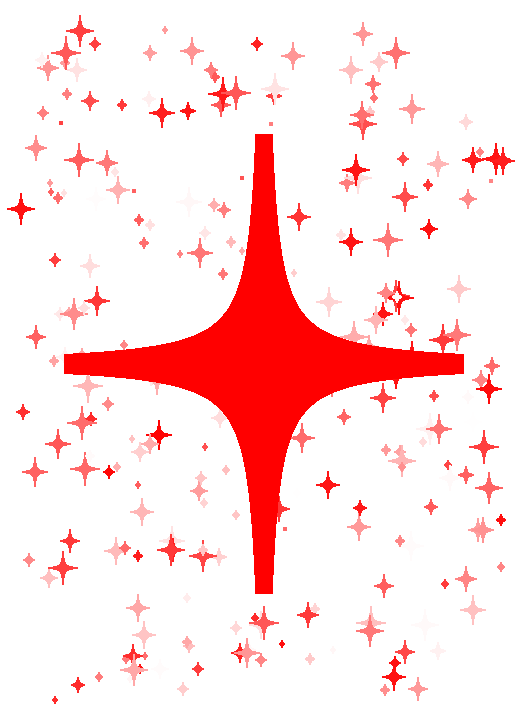
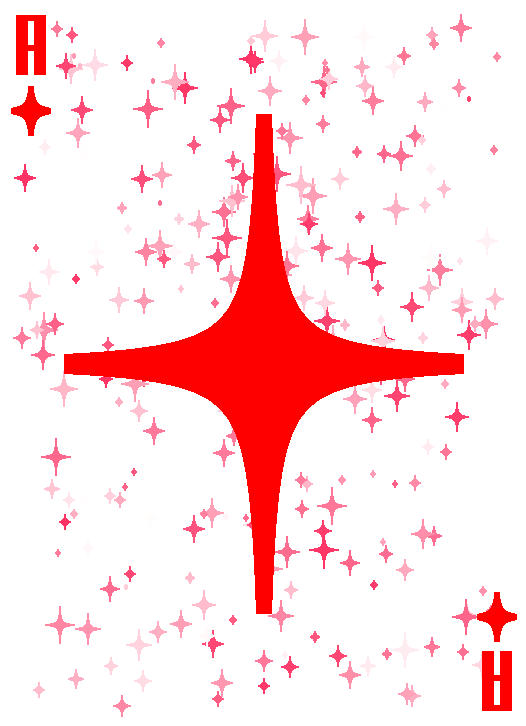
paint full card

diff --git a/main.py b/main.py
@@ -2,6 +2,7 @@
 from PIL import Image, ImageDraw
 from logger import Logger
 from star_painter import StarPainter
+from letter_painter import LetterPainter
 from argument_parser import ArgumentParser
 from sys import argv
 from random import sample, randint, seed
@@ -13,7 +14,7 @@ logger = Logger()
 argument_parser = ArgumentParser()
 
 # List of ['argument-name', 'default-value']
-POSSIBLE_ARGUMENTS = {'pixels-x': 526, 'pixels-y': 726, 'seed': 6}
+POSSIBLE_ARGUMENTS = {'pixels-x': 526, 'pixels-y': 726, 'seed': 7}
 
 # Parse the arguments
 arguments = argument_parser.parse(POSSIBLE_ARGUMENTS, argv)
@@ -24,14 +25,34 @@ seed(int(arguments['seed']))
 
 image = Image.new("RGB", (pixels_x, pixels_y), (255,255,255))
 draw = ImageDraw.Draw(image)
+letter_painter = LetterPainter(image)
 
 # Draw some stars
 star_painter = StarPainter(image)
-star_painter.paint_stars(5, 30, 250, (255,0,0), (255,255,255))
+star_painter.paint_stars(5, 30, 250, (255,50,100), (255,255,255))
 
 # Draw main diamond
-DIAMOND_SIZE = 400
-star_painter.paint_star(pixels_x//2, pixels_y//2, DIAMOND_SIZE, (255,0,0), 10)
+star_painter.paint_star(pixels_x//2, pixels_y//2, 400, (255,0,0), 10)
+
+RED = (255,0,0,255)
+CORNER_DIAMOND_SIZE = 40
+CORNER_DIAMOND_CURVE = 3
+CORNER_MARGIN_V = 110
+CORNER_MARGIN_H = 30
+TEXT_MARGIN_V = 45
+TEXT_MARGIN_H = 30
+
+# Draw top-left diamond
+star_painter.paint_star(CORNER_MARGIN_H, CORNER_MARGIN_V, CORNER_DIAMOND_SIZE, (255,0,0), CORNER_DIAMOND_CURVE)
+
+# Draw bottom-right diamond
+star_painter.paint_star(pixels_x - CORNER_MARGIN_H, pixels_y - CORNER_MARGIN_V, CORNER_DIAMOND_SIZE, (255,0,0), CORNER_DIAMOND_CURVE)
+
+# Draw top-left 'A'
+letter_painter.paint_letter((TEXT_MARGIN_H, TEXT_MARGIN_V), 'A', 6, RED)
+
+# Draw bottom-right 'A'
+letter_painter.paint_letter((pixels_x - TEXT_MARGIN_H, pixels_y - TEXT_MARGIN_V), 'A', 6, RED, True)
 
 image.save(f"./output/art.png")
 logger.log("painted!")

diff --git a/letter_painter.py b/letter_painter.py
@@ -1,0 +1,35 @@
+
+# Letter bank
+A = [[1, 1, 1, 1, 1],
+     [1, 1, 0, 1, 1],
+     [1, 1, 0, 1, 1],
+     [1, 1, 0, 1, 1],
+     [1, 1, 0, 1, 1],
+     [1, 1, 1, 1, 1],
+     [1, 1, 0, 1, 1],
+     [1, 1, 0, 1, 1],
+     [1, 1, 0, 1, 1],
+     [1, 1, 0, 1, 1]]
+
+LETTER_MAP = {'A': A}
+
+class LetterPainter():
+    def __init__(self, image):
+        self.image = image
+
+    def paint_letter(self, xy, letter, scale, color, flip=False):
+        # TODO check if letter in map
+        letter_array = LETTER_MAP[letter]
+        if flip:
+            letter_array = letter_array[::-1]
+        y = xy[1] - (scale*len(letter_array))//2
+        for row in letter_array:
+            for _ in range(scale):
+                x = xy[0] - (scale*len(row))//2
+                for col in row:
+                    for _ in range(scale):
+                        x += 1
+                        # Paint
+                        if col == 1:
+                            self.image.putpixel((x, y), color)
+                y += 1

diff --git a/star_painter.py b/star_painter.py
@@ -31,7 +31,7 @@ class StarPainter():
     def paint_star(self, center_x, center_y, width, color, tail_factor):
         if width%2==0:
             width += 1
-        height = int(width*1.15)
+        height = int(width*1.25)
         if height%2==0:
             height += 1
 
